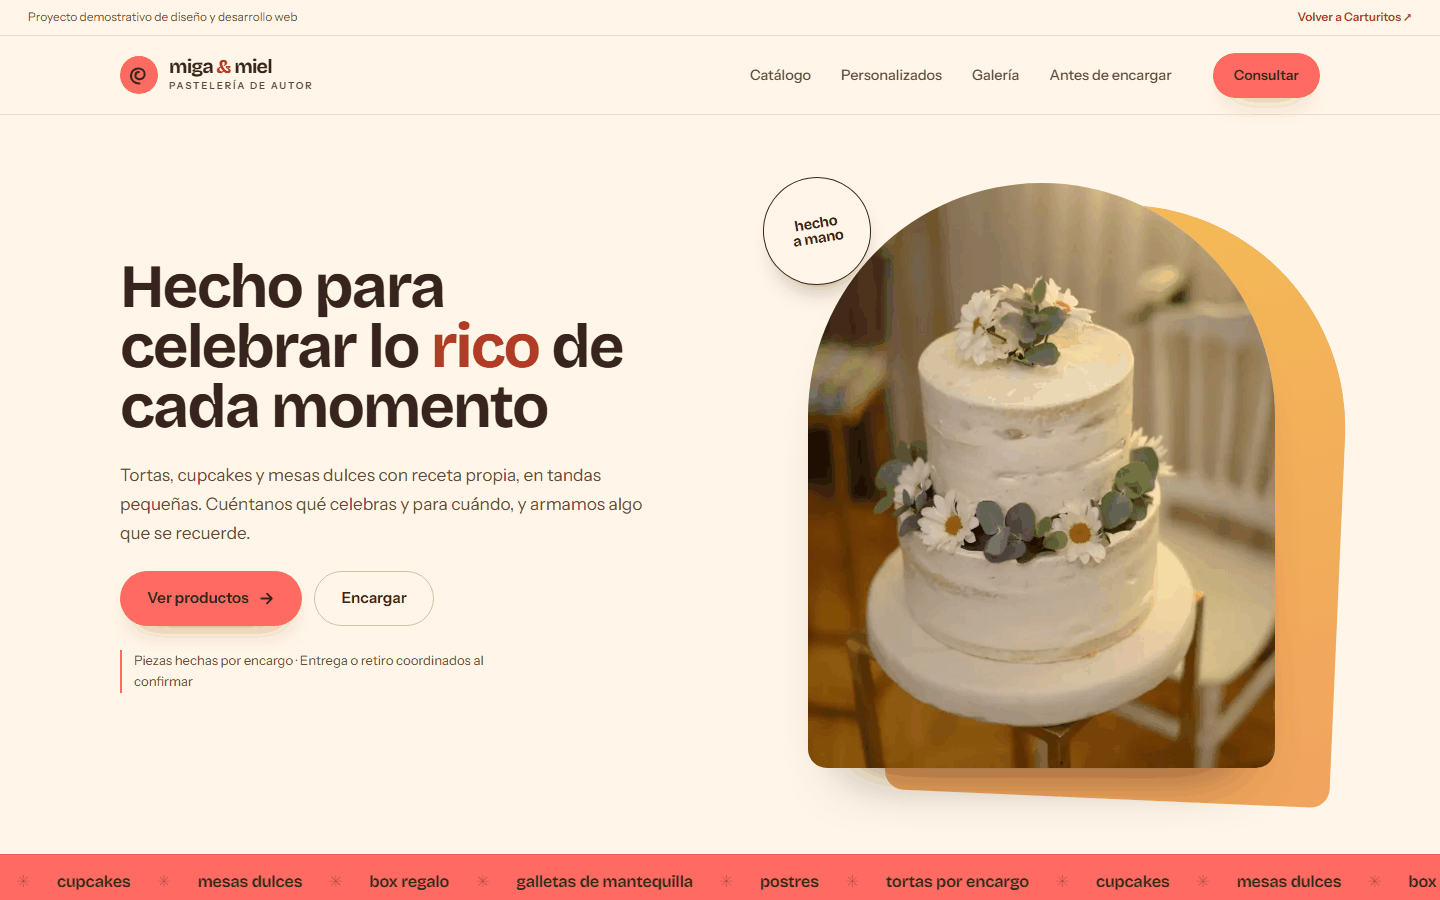
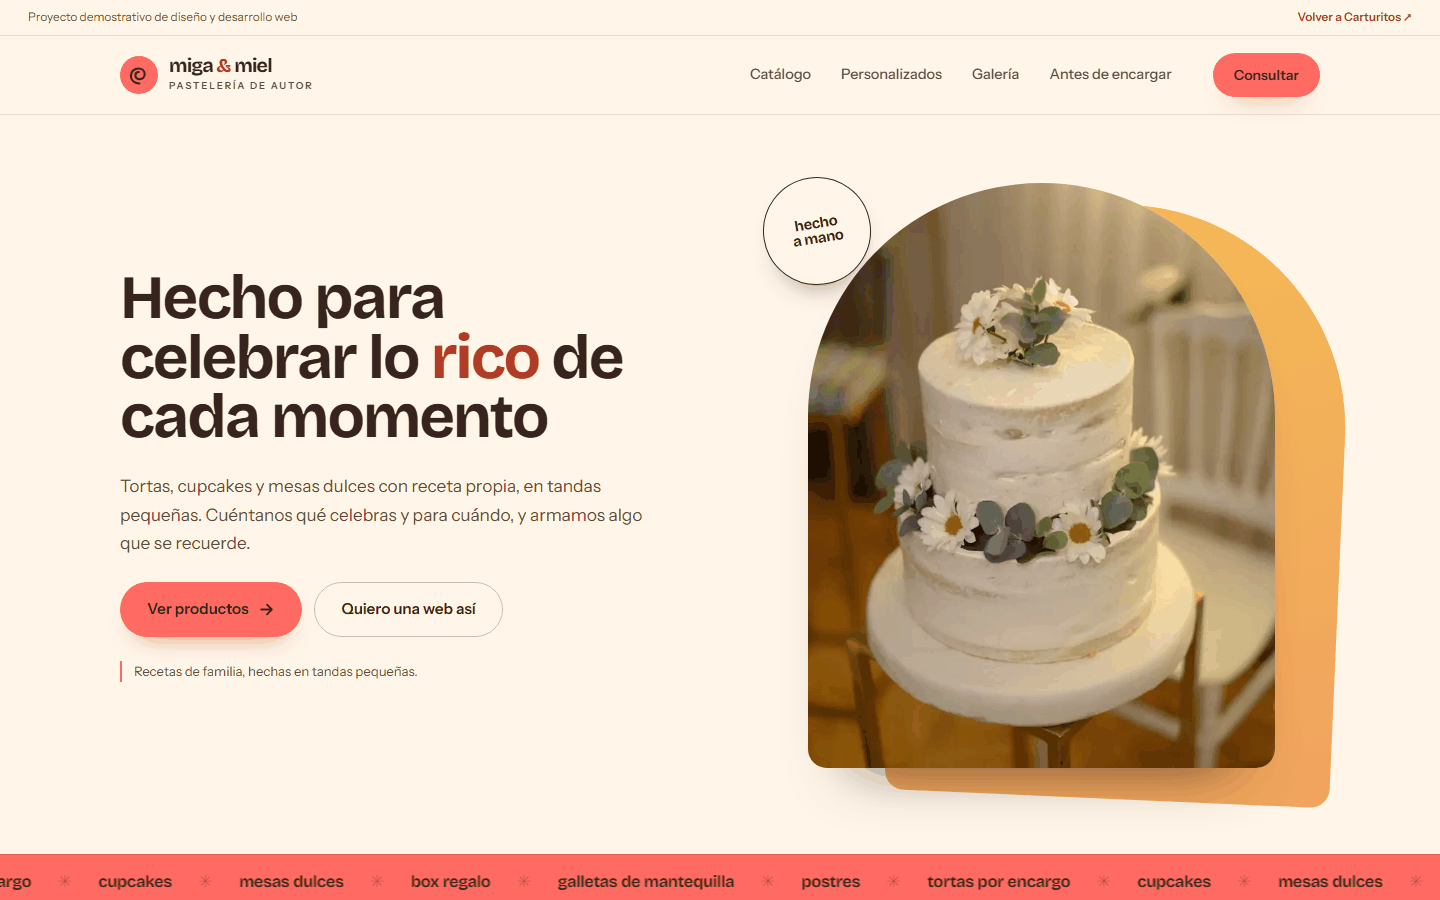
fix(miga-miel): ajustes de la revision de accesibilidad y contenido
- Menu movil: foco confinado en cabecera y panel (inert + ciclo de Tab),
  foco inicial en el primer enlace y retorno al boton al cerrar con Esc o al elegir.
- CTA del hero: 'Encargar' pasa a 'Quiero una web así' porque lleva a la consulta de desarrollo.
- Servicios: 'Catalogo editable' se separa en 'Catalogo con fichas' (implementado)
  y panel de administracion como servicio adicional.
- Copy de marca en pasos, FAQ, nota del hero y bajada de galeria; sin afirmaciones
  operativas ni nuevas advertencias.
- Corregida la codificacion del CSS (guion del acordeon y acentos).
- Capturas actualizadas.

diff --git a/landing_page/src/pages/demos/miga/MigaMiel.tsx b/landing_page/src/pages/demos/miga/MigaMiel.tsx
@@ -39,6 +39,8 @@ export function MigaMiel() {
 
   const heroRef = useRef<HTMLElement | null>(null)
   const toggleRef = useRef<HTMLButtonElement | null>(null)
+  const navRef = useRef<HTMLElement | null>(null)
+  const headerRef = useRef<HTMLElement | null>(null)
 
   const need = needOptions.find((option) => option.id === needId) ?? needOptions[0]
 
@@ -58,12 +60,41 @@ export function MigaMiel() {
       if (event.key === 'Escape') {
         setMenuOpen(false)
         toggleRef.current?.focus()
+        return
+      }
+
+      if (event.key !== 'Tab') return
+
+      // El resto de la página está `inert`; el tabulador circular dentro de la
+      // cabecera y el panel, que son los únicos controles visibles.
+      const header = headerRef.current
+      if (!header) return
+
+      const focusable = Array.from(
+        header.querySelectorAll<HTMLElement>('a[href], button:not([disabled])'),
+      ).filter((element) => element.getClientRects().length > 0)
+
+      if (focusable.length === 0) return
+
+      const first = focusable[0]
+      const last = focusable[focusable.length - 1]
+
+      if (event.shiftKey && document.activeElement === first) {
+        event.preventDefault()
+        last.focus()
+      } else if (!event.shiftKey && document.activeElement === last) {
+        event.preventDefault()
+        first.focus()
       }
     }
 
     const previousOverflow = document.body.style.overflow
     document.body.style.overflow = 'hidden'
     document.addEventListener('keydown', onKeyDown)
+
+    // El foco entra al panel; el resto de la página queda `inert` mientras está abierto.
+    const firstLink = navRef.current?.querySelector('a')
+    firstLink?.focus()
 
     return () => {
       document.body.style.overflow = previousOverflow
@@ -86,6 +117,7 @@ export function MigaMiel() {
 
   function closeMenu() {
     setMenuOpen(false)
+    toggleRef.current?.focus()
   }
 
   function consultProduct(selected: Product) {
@@ -104,7 +136,7 @@ export function MigaMiel() {
         </a>
       </div>
 
-      <header className="mm-head">
+      <header className="mm-head" ref={headerRef}>
         <div className="mm-wrap mm-head-inner">
           <a className="mm-brand" href="#inicio">
             <span className="mm-brand-symbol" aria-hidden="true">
@@ -127,6 +159,7 @@ export function MigaMiel() {
           </a>
 
           <nav
+            ref={navRef}
             className={`mm-nav${menuOpen ? ' is-open' : ''}`}
             id="mm-menu"
             aria-label="Navegación principal"
@@ -155,7 +188,7 @@ export function MigaMiel() {
         </div>
       </header>
 
-      <main id="contenido">
+      <main id="contenido" inert={menuOpen}>
         {/* 1 · Hero */}
         <section className="mm-hero" id="inicio" ref={heroRef}>
           <div className="mm-wrap mm-hero-grid">
@@ -181,11 +214,9 @@ export function MigaMiel() {
                     />
                   </svg>
                 </a>
-                <a className="mm-btn mm-btn-outline" href="#consultar">Encargar</a>
+                <a className="mm-btn mm-btn-outline" href="#consultar">Quiero una web así</a>
               </div>
-              <p className="mm-hero-note">
-                Piezas hechas por encargo · Entrega o retiro coordinados al confirmar
-              </p>
+              <p className="mm-hero-note">Recetas de familia, hechas en tandas pequeñas.</p>
             </div>
 
             <div className="mm-hero-visual">
@@ -372,8 +403,8 @@ export function MigaMiel() {
                 </li>
                 <li>
                   <span>03</span>
-                  <h3>Coordinación simple</h3>
-                  <p>Fecha, retiro o entrega y pago se acuerdan al confirmar.</p>
+                  <h3>Del horno a la mesa</h3>
+                  <p>Empaque y presentación pensados para que la pieza llegue impecable.</p>
                 </li>
               </ol>
               <a
@@ -406,8 +437,7 @@ export function MigaMiel() {
                 <h2 id="mm-galeria-title">Del horno a la mesa.</h2>
               </div>
               <p className="mm-aside">
-                Producto, detalle y montaje. Fotografía de Pexels con licencia libre, documentada en
-                el proyecto.
+                Producto, detalle y montaje: así se ve una mesa cuando el diseño también se cocina.
               </p>
             </Reveal>
 
@@ -488,9 +518,13 @@ export function MigaMiel() {
               </p>
               <ul className="mm-deliverables">
                 <li>Diseño a medida</li>
-                <li>Catálogo editable</li>
+                <li>Catálogo con fichas</li>
                 <li>Consultas por WhatsApp</li>
               </ul>
+              <p className="mm-extra">
+                Editar precios y productos sin tocar código: panel de administración, servicio
+                adicional.
+              </p>
             </Reveal>
 
             <Reveal className="mm-consulta-card">
@@ -546,7 +580,7 @@ export function MigaMiel() {
         </section>
       </main>
 
-      <footer className="mm-foot" id="carturitos">
+      <footer className="mm-foot" id="carturitos" inert={menuOpen}>
         <div className="mm-wrap mm-foot-grid">
           <div className="mm-foot-brand">
             <span className="mm-brand-name">

diff --git a/landing_page/src/pages/demos/miga/data.ts b/landing_page/src/pages/demos/miga/data.ts
@@ -112,32 +112,32 @@ export const products: Product[] = [
 export const steps = [
   { title: 'Elige', text: 'Revisa el catálogo o cuéntanos qué tienes en mente.' },
   {
-    title: 'Cuéntanos la fecha',
-    text: 'Día, cantidad de personas y referencias que te gusten.',
+    title: 'Imagina',
+    text: 'Cuéntanos la ocasión, los sabores y las referencias que te gusten.',
   },
   {
-    title: 'Confirmamos',
-    text: 'Te respondemos con valor y opciones. La fecha se reserva al confirmar.',
+    title: 'Diseñamos',
+    text: 'Afinamos tamaño, decoración y detalles hasta que quede claro.',
   },
-  { title: 'Retira o recibe', text: 'Coordinamos entrega o retiro para el día acordado.' },
+  { title: 'Celebra', text: 'La pieza llega a la mesa como la imaginaste.' },
 ]
 
 export const faqs = [
   {
-    q: '¿Cómo se encarga una pieza?',
-    a: 'Eliges del catálogo o cuentas tu idea. Definimos sabor, tamaño y decoración, y coordinamos la fecha antes de confirmar.',
+    q: '¿Cómo empieza un encargo?',
+    a: 'Con una conversación: qué celebras, para cuántas personas y qué te gustaría ver en la mesa. De ahí sale la primera propuesta.',
   },
   {
-    q: '¿Con cuánta anticipación conviene escribir?',
-    a: 'Depende de la pieza y de la fecha: las celebraciones grandes piden más margen. Con tu fecha a la vista te confirmamos disponibilidad.',
+    q: '¿Puedo pedir algo que no está en el catálogo?',
+    a: 'Sí. La carta es un punto de partida: si imaginas otra cosa, la diseñamos juntos.',
   },
   {
-    q: '¿Hacen versiones sin gluten o sin lactosa?',
-    a: 'Sí, coordinando antes. Eso sí: la cocina también trabaja con harina de trigo, así que lo decimos antes de confirmar.',
+    q: '¿Trabajan con fruta de temporada?',
+    a: 'Sí. La fruta y los sabores cambian con la estación, por eso el catálogo también se mueve.',
   },
   {
-    q: '¿Hay entrega o solo retiro?',
-    a: 'Ambas se coordinan al confirmar el encargo, según la comuna y el tamaño de la pieza.',
+    q: '¿Se puede personalizar la decoración?',
+    a: 'Es la parte que más disfrutamos: paleta, flores, el mensaje de la tarjeta y el nivel de detalle.',
   },
 ]
 

diff --git a/landing_page/src/pages/demos/miga/migaMiel.css b/landing_page/src/pages/demos/miga/migaMiel.css
@@ -1,6 +1,6 @@
 /* =========================================================
-   Miga & Miel â€” demo 03
-   DirecciÃ³n B: moderna y expresiva. Ver docs/diseno-miga-miel.md
+   Miga & Miel — demo 03
+   Dirección B: moderna y expresiva. Ver docs/diseno-miga-miel.md
    ========================================================= */
 
 @font-face {
@@ -301,7 +301,7 @@
   width: 100%;
 }
 
-/* ---------- Etiquetas de secciÃ³n ---------- */
+/* ---------- Etiquetas de sección ---------- */
 
 .mm-eyebrow {
   display: inline-flex;
@@ -356,7 +356,7 @@
   padding-bottom: 6px;
 }
 
-/* ---------- FotografÃas ---------- */
+/* ---------- Fotografías ---------- */
 
 .mm-photo {
   position: relative;
@@ -531,7 +531,7 @@
   }
 }
 
-/* ---------- CatÃ¡logo ---------- */
+/* ---------- Catálogo ---------- */
 
 .mm-catalogo {
   background: var(--mm-cream-2);
@@ -787,7 +787,7 @@
   max-width: 38ch;
 }
 
-/* ---------- GalerÃa ---------- */
+/* ---------- Galería ---------- */
 
 .mm-galeria {
   padding: clamp(60px, 7vw, 104px) 0;
@@ -944,7 +944,7 @@
 }
 
 .mm-faq-list details[open] summary::after {
-  content: 'â€“';
+  content: '–';
 }
 
 .mm-faq-list details p {
@@ -996,6 +996,14 @@
   border-radius: 999px;
   border: 1px solid rgba(42, 25, 21, 0.28);
   color: rgba(42, 25, 21, 0.85);
+}
+
+.mm-extra {
+  margin-top: 14px;
+  max-width: 44ch;
+  font-size: 0.78rem;
+  line-height: 1.5;
+  color: rgba(55, 36, 31, 0.9);
 }
 
 .mm-consulta-card {
@@ -1141,7 +1149,7 @@
   color: var(--mm-ink-soft);
 }
 
-/* ---------- Barra mÃ³vil ---------- */
+/* ---------- Barra móvil ---------- */
 
 .mm-bar {
   display: none;
@@ -1247,7 +1255,7 @@
   place-items: center;
 }
 
-/* ---------- ApariciÃ³n ---------- */
+/* ---------- Aparición ---------- */
 
 .mm-reveal {
   opacity: 0;
@@ -1347,7 +1355,7 @@
     transform: none;
   }
 
-  /* La marca y el botÃ³n quedan sobre el panel para poder cerrarlo */
+  /* La marca y el botón quedan sobre el panel para poder cerrarlo */
   .mm-brand,
   .mm-head-actions {
     position: relative;
